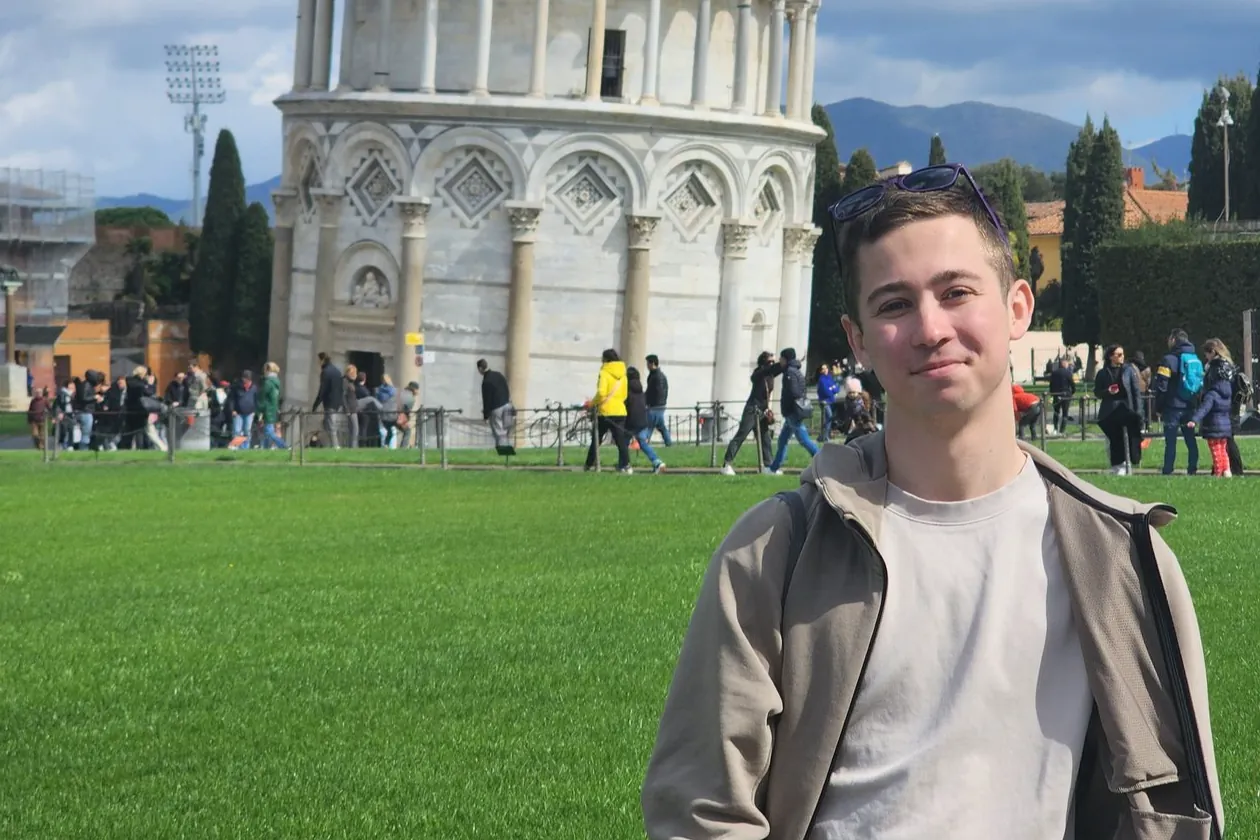
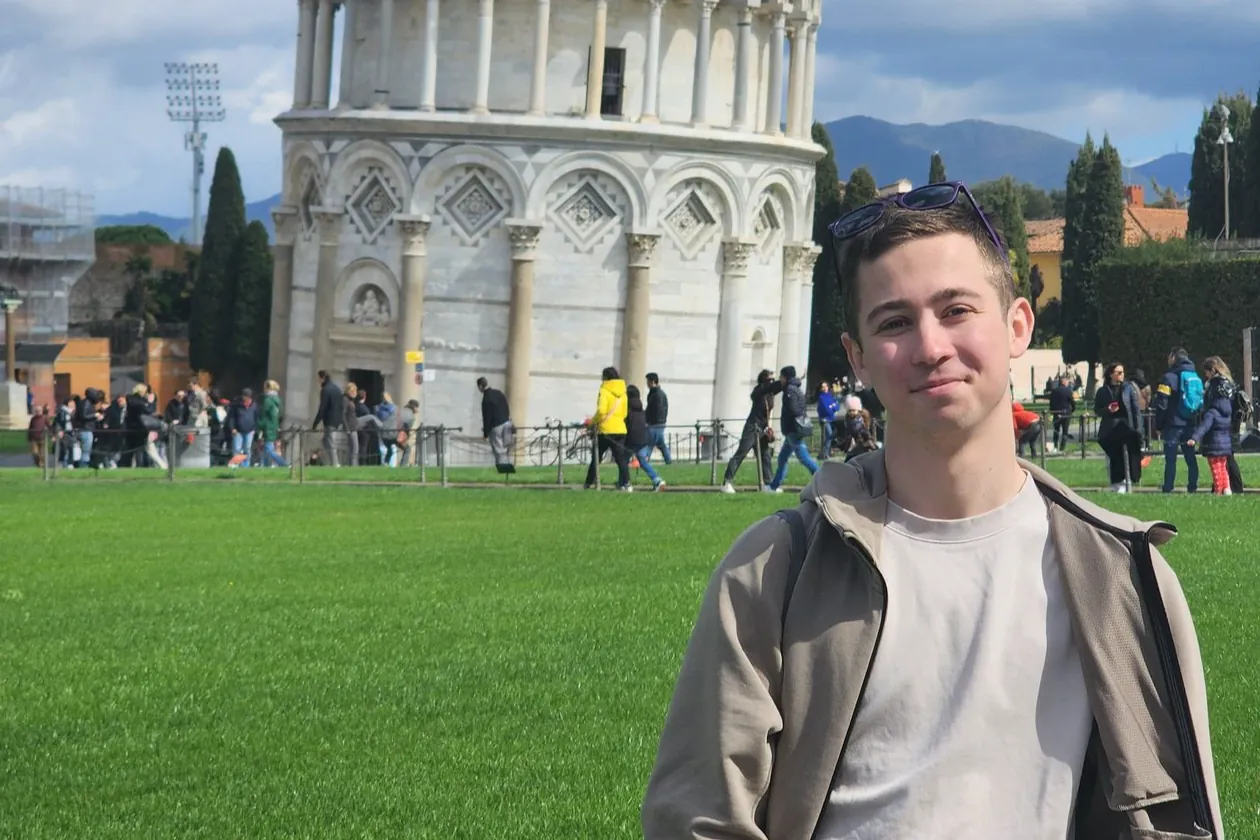
Новости: заголовок Холоэкспо-2024 и кадры двух портретов
Заголовок про «Холоэкспо-2024» встает в три строки по разбивке владельца.
Кадрирование: лица далеко от самого крупного больше не берутся в расчет (каскад
принимал за лицо светильник на потолке и складку халата), над лицом оставляется
запас на макушку, а где автоматика все равно промахивается, кадр задается руками
в словаре FRAMES. Поправлены снимки Юлии Мельчаковой и Марии Тимофеевой.

diff --git a/assets/js/data.js b/assets/js/data.js
@@ -3609,7 +3609,7 @@ window.NEWS = [
     },
   },
   {
-    id: "itmo-collab-2026", tag: "Достижение", date: "2026-09-02", image: "news-itmo-collab-2026.webp?v=0fffc503", popupImage: "news-itmo-collab-2026-popup.webp?v=389a7cbe",
+    id: "itmo-collab-2026", tag: "Достижение", date: "2026-09-02", image: "news-itmo-collab-2026.webp?v=2e15fc16", popupImage: "news-itmo-collab-2026-popup.webp?v=74f128c2",
     title: "Павел Филатов возглавил <br> программу ITMO Collab <br> в сезоне 2026/2027",
     text: "Павел Филатов стал руководителем программы ITMO Collab. Конкурс междисциплинарных студенческих проектов ИТМО, где лучшие команды получат до 1 000 000 рублей.",
     body: {
@@ -3625,7 +3625,7 @@ window.NEWS = [
     },
   },
   {
-    id: "biomaterials-paper", tag: "Публикация", date: "2026-08-26", image: "news-biomaterials-paper.webp?v=1da0e5e0", popupImage: "news-biomaterials-paper-popup.webp?v=f03cac34",
+    id: "biomaterials-paper", tag: "Публикация", date: "2026-08-26", image: "news-biomaterials-paper.webp?v=1da0e5e0", popupImage: "news-biomaterials-paper-popup.webp?v=aff3dde6",
     title: "Новая публикация <br> участников центра <br> в журнале Biomaterials",
     text: "Члены нашей команды опубликовали статью о наночастицах с микроРНК-200а для терапии острых и хронических заболеваний печени",
     body: {
@@ -3639,7 +3639,7 @@ window.NEWS = [
     },
   },
   {
-    id: "phd-finish-2026", tag: "Событие", date: "2026-07-13", image: "news-phd-finish-2026.webp?v=7668d711", popupImage: "news-phd-finish-2026-popup.webp?v=c98f7293",
+    id: "phd-finish-2026", tag: "Событие", date: "2026-07-13", image: "news-phd-finish-2026.webp?v=944e2d31", popupImage: "news-phd-finish-2026-popup.webp?v=dcadcd21",
     title: "Четверо сотрудников <br> нашего центра завершили <br> аспирантуру ИТМО",
     text: "Константин Арабули, Николай Жесткий, Лидия Михайлова и Мария Тимофеева завершили обучение в аспирантуре. Впереди — защита кандидатских диссертаций.",
     body: {
@@ -3757,7 +3757,7 @@ window.NEWS = [
     },
   },
   {
-    id: "valiev-scholarship", tag: "Достижение", date: "2025-12-16", image: "news-valiev-scholarship.webp?v=a0e21768", popupImage: "news-valiev-scholarship-popup.webp?v=a22f798d",
+    id: "valiev-scholarship", tag: "Достижение", date: "2025-12-16", image: "news-valiev-scholarship.webp?v=99682b81", popupImage: "news-valiev-scholarship-popup.webp?v=df0425aa",
     title: "Мария Тимофеева — <br> обладатель стипендии <br> имени К.А. Валиева",
     text: "Аспирантка нашего центра Мария Тимофеева стала победителем конкурсного отбора на именную стипендию имени К.А. Валиева. Стипендия назначается Минобрнауки РФ за достижения в области электронной промышленности.",
     body: {
@@ -3770,7 +3770,7 @@ window.NEWS = [
     },
   },
   {
-    id: "holoexpo-2025", tag: "Конференция", date: "2025-09-18", image: "news-holoexpo-2025.webp?v=c4bee3d5", popupImage: "news-holoexpo-2025-popup.webp?v=cfb51a27",
+    id: "holoexpo-2025", tag: "Конференция", date: "2025-09-18", image: "news-holoexpo-2025.webp?v=f1dc6164", popupImage: "news-holoexpo-2025-popup.webp?v=1bc918f1",
     title: "Павел Кустов получил <br> награду за лучший доклад <br> на Холоэкспо 2025",
     text: "Команда ЦМТ «Мост» приняла участие в конференции по фотонике Холоэкспо 2025 в Уфе. Павел Кустов удостоен награды за лучший устный доклад.",
     body: {
@@ -3811,7 +3811,7 @@ window.NEWS = [
     },
   },
   {
-    id: "knvsh-2025", tag: "Достижение", date: "2025-08-15", image: "news-knvsh-2025.webp?v=8e8fd661", popupImage: "news-knvsh-2025-popup.webp?v=d01bbc47",
+    id: "knvsh-2025", tag: "Достижение", date: "2025-08-15", image: "news-knvsh-2025.webp?v=789f2c50", popupImage: "news-knvsh-2025-popup.webp?v=d01bbc47",
     title: "Наш студент <br> Мартин Сандомирский — <br> победитель конкурса КНВШ",
     text: "Наш коллега Мартин Сандомирский стал победителем конкурса на получение грантов КНВШ для молодых ученых",
     body: {
@@ -3889,7 +3889,7 @@ window.NEWS = [
     },
   },
   {
-    id: "yali-sun-hust", tag: "Событие", date: "2025-04-22", image: "news-yali-sun-hust.webp?v=2be57170", popupImage: "news-yali-sun-hust-popup.webp?v=91a10c94",
+    id: "yali-sun-hust", tag: "Событие", date: "2025-04-22", image: "news-yali-sun-hust.webp?v=f15a2413", popupImage: "news-yali-sun-hust-popup.webp?v=645aad0b",
     title: "Наш постдок Яли Сунь переходит <br> на должность профессора <br> в университет HUST",
     text: "Яли Сунь, одна из первых участниц нашей группы, покидает команду, чтобы занять должность профессора в ведущем китайском университете Huazhong University of Science and Technology (HUST, Китай).",
     body: {
@@ -3902,7 +3902,7 @@ window.NEWS = [
     },
   },
   {
-    id: "zmaga-hust", tag: "Событие", date: "2025-04-22", image: "news-zmaga-hust.webp?v=1649e01c", popupImage: "news-zmaga-hust-popup.webp?v=068a2a78",
+    id: "zmaga-hust", tag: "Событие", date: "2025-04-22", image: "news-zmaga-hust.webp?v=c63f5d19", popupImage: "news-zmaga-hust-popup.webp?v=068a2a78",
     title: "Наш студент Георгий Змага <br> посетил университет HUST <br> в Ухане",
     text: "Участник нашей команды Георгий Змага посетил Хуачжунский университет науки и технологий (HUST, Ухань, Китай). Он работал в оптической лаборатории, провел измерения для проекта по детектированию слабого рамановского сигнала одиночных молекул и посетил Optics Valley Laboratory.",
     body: {
@@ -3915,7 +3915,7 @@ window.NEWS = [
     },
   },
   {
-    id: "photonics-expo-2025", tag: "Конференция", date: "2025-04-01", image: "news-photonics-expo-2025.webp?v=0f2639fc", popupImage: "news-photonics-expo-2025-popup.webp?v=34e9036c",
+    id: "photonics-expo-2025", tag: "Конференция", date: "2025-04-01", image: "news-photonics-expo-2025.webp?v=1d7c5011", popupImage: "news-photonics-expo-2025-popup.webp?v=09834e00",
     title: "Наша команда приняла <br> участие в выставке <br> «Фотоника 2025»",
     text: "С 1 по 4 апреля 2025 года члены нашей команды представили прикладные проекты на выставке «Фотоника 2025» в Москве. На стенде ИТМО были показаны синтез наночастиц кремния лазерной абляцией и защитные неклонируемые метки Unclonix.",
     body: {
@@ -3928,7 +3928,7 @@ window.NEWS = [
     },
   },
   {
-    id: "nanophysics-2025", tag: "Конференция", date: "2025-03-15", image: "news-nanophysics-2025.webp?v=1a5cc495", popupImage: "news-nanophysics-2025-popup.webp?v=4dda09df",
+    id: "nanophysics-2025", tag: "Конференция", date: "2025-03-15", image: "news-nanophysics-2025.webp?v=1a5cc495", popupImage: "news-nanophysics-2025-popup.webp?v=611384af",
     title: "Дмитрий Зуев выступил <br> на симпозиуме «Нанофизика <br> и наноэлектроника»",
     text: "Дмитрий Зуев принял участие в XXIX Симпозиуме «Нанофизика и наноэлектроника», который прошел 11–14 марта 2025 года в Нижнем Новгороде. Он представил доклад о гибридных нанофотонных системах.",
     body: {
@@ -3941,7 +3941,7 @@ window.NEWS = [
     },
   },
   {
-    id: "melchakova-join", tag: "Событие", date: "2025-03-13", image: "news-melchakova-join.webp?v=00b39730", popupImage: "news-melchakova-join-popup.webp?v=e996adb7",
+    id: "melchakova-join", tag: "Событие", date: "2025-03-13", image: "news-melchakova-join.webp?v=d823051c", popupImage: "news-melchakova-join-popup.webp?v=ae9ce2ba",
     title: "Юлия Мельчакова присоединилась к нашей команде в роли постдока",
     text: "Наша команда пополнилась: к нам присоединилась Юлия Мельчакова, постдок. Она будет заниматься теоретическим исследованием спин-поляризованных материалов для оптики и фотоники.",
     body: {
@@ -3967,7 +3967,7 @@ window.NEWS = [
     },
   },
   {
-    id: "metanano-2024", tag: "Конференция", date: "2024-10-27", image: "news-metanano-2024.webp?v=a270c318", popupImage: "news-metanano-2024-popup.webp?v=2cc7124c",
+    id: "metanano-2024", tag: "Конференция", date: "2024-10-27", image: "news-metanano-2024.webp?v=a270c318", popupImage: "news-metanano-2024-popup.webp?v=a777fd28",
     title: "Команда нашего центра <br> участвует на школе <br> METANANO 2024",
     text: "Члены нашей группы Екатерина Понкратова, Артем Ларин, Елена Петрова и Мартин Сандомирский приняли участие в школе METANANO 2024 в Циндао. Мартин Сандомирский получил награду за лучший постер.",
     body: {
@@ -3993,7 +3993,7 @@ window.NEWS = [
     },
   },
   {
-    id: "microelectronics-2024", tag: "Конференция", date: "2024-09-29", image: "news-microelectronics-2024.webp?v=9df910e9", popupImage: "news-microelectronics-2024-popup.webp?v=7f614685",
+    id: "microelectronics-2024", tag: "Конференция", date: "2024-09-29", image: "news-microelectronics-2024.webp?v=7941bd30", popupImage: "news-microelectronics-2024-popup.webp?v=7f614685",
     title: "Павел Кустов принял <br> участие в форуме <br> «Микроэлектроника 2024»",
     text: "Член нашей группы Павел Кустов принял участие в форуме «Микроэлектроника 2024» — главном отраслевом событии в сфере электронных технологий. Мероприятие собрало ведущих экспертов и новаторов.",
     body: {
@@ -4009,7 +4009,7 @@ window.NEWS = [
     },
   },
   {
-    id: "alt-2024", tag: "Конференция", date: "2024-09-28", image: "news-alt-2024.webp?v=39faf618", popupImage: "news-alt-2024-popup.webp?v=cc7e7f8a",
+    id: "alt-2024", tag: "Конференция", date: "2024-09-28", image: "news-alt-2024.webp?v=39faf618", popupImage: "news-alt-2024-popup.webp?v=ee84db5b",
     title: "Дмитрий Зуев — приглашенный <br> докладчик на конференции <br> ALT 2024",
     text: "Дмитрий Зуев выступил в качестве приглашенного докладчика на 31-й Международной конференции Advanced Laser Technologies (ALT 2024) в ДВФУ, Владивосток",
     body: {
@@ -4023,7 +4023,7 @@ window.NEWS = [
   },
   {
     id: "holoexpo-2024", tag: "Конференция", date: "2024-09-15", image: "news-holoexpo-2024.webp?v=4d0aaacc", popupImage: "news-holoexpo-2024-popup.webp?v=4dfadafe",
-    title: "Эдуард Агеев представил доклад на конференции «Холоэкспо»",
+    title: "Эдуард Агеев представил <br> доклад на конференции <br> «Холоэкспо-2024»",
     text: "С 9 по 13 сентября 2024 года в Казани прошла 21-я международная конференция по голографии и прикладным оптическим технологиям «Холоэкспо». Эдуард Агеев представил доклад о лазерной микро- и нанофабрикации.",
     body: {
       lead: [
@@ -4035,7 +4035,7 @@ window.NEWS = [
     },
   },
   {
-    id: "rosupack-2024", tag: "Конференция", date: "2024-06-22", image: "news-rosupack-2024.webp?v=31a774d1", popupImage: "news-rosupack-2024-popup.webp?v=c44210cd",
+    id: "rosupack-2024", tag: "Конференция", date: "2024-06-22", image: "news-rosupack-2024.webp?v=7f2d4361", popupImage: "news-rosupack-2024-popup.webp?v=c44210cd",
     title: "Павел Кустов принял <br> участие в выставке <br> RosUpack 2024",
     text: "Член нашей команды Павел Кустов принял участие в 29-й Международной выставке упаковочной индустрии RosUpack — крупнейшей выставке в России и Восточной Европе.",
     body: {
@@ -4048,7 +4048,7 @@ window.NEWS = [
     },
   },
   {
-    id: "school-projects-2024", tag: "Достижение", date: "2024-05-24", image: "news-school-projects-2024.webp?v=15f6d23d", popupImage: "news-school-projects-2024-popup.webp?v=9abf782e",
+    id: "school-projects-2024", tag: "Достижение", date: "2024-05-24", image: "news-school-projects-2024.webp?v=9b766db5", popupImage: "news-school-projects-2024-popup.webp?v=38973509",
     title: "Школьные проекты <br> под руководством нашей группы <br> получили научные награды",
     text: "В нашем центре ежегодно стажируются 11 школьников из Санкт-Петербурга, Красноярска, Котласа и Приозерска. Их проекты завоевали дипломы I и II степени на «Сахаровских чтениях 2024» и других конференциях.",
     body: {
@@ -4061,7 +4061,7 @@ window.NEWS = [
     },
   },
   {
-    id: "harbin-seminar-2024", tag: "Конференция", date: "2024-04-29", image: "news-harbin-seminar-2024.webp?v=689a4148", popupImage: "news-harbin-seminar-2024-popup.webp?v=56c74064",
+    id: "harbin-seminar-2024", tag: "Конференция", date: "2024-04-29", image: "news-harbin-seminar-2024.webp?v=d53d1182", popupImage: "news-harbin-seminar-2024-popup.webp?v=56c74064",
     title: "Дмитрий Зуев выступил <br> на семинаре в Харбинском <br> инженерном университете",
     text: "Дмитрий Зуев был приглашенным докладчиком на международном семинаре «Нанотехнологии для оптики и оптоэлектроники» в Харбинском инженерном университете (26–29 апреля 2024).",
     body: {
@@ -4074,7 +4074,7 @@ window.NEWS = [
     },
   },
   {
-    id: "conferences-2023", tag: "Конференция", date: "2024-01-25", image: "news-conferences-2023.webp?v=d3549f7c", popupImage: "news-conferences-2023-popup.webp?v=b92c05ff",
+    id: "conferences-2023", tag: "Конференция", date: "2024-01-25", image: "news-conferences-2023.webp?v=d3549f7c", popupImage: "news-conferences-2023-popup.webp?v=8775abf3",
     title: "Наша команда <br> на всероссийских <br> и международных конференциях",
     text: "Члены нашей команды представили результаты исследований на конференциях ICMAT 2023, IEEE-NANO 2023, Метаматериалы'2023, ВКВО-2023, «Невская фотоника — 2023» и других.",
     body: {
@@ -4113,7 +4113,7 @@ window.NEWS = [
     },
   },
   {
-    id: "unclonix-gitex-2023", tag: "Конференция", date: "2023-10-19", image: "news-unclonix-gitex-2023.webp?v=e7267852", popupImage: "news-unclonix-gitex-2023-popup.webp?v=3393c56b",
+    id: "unclonix-gitex-2023", tag: "Конференция", date: "2023-10-19", image: "news-unclonix-gitex-2023.webp?v=a2962b22", popupImage: "news-unclonix-gitex-2023-popup.webp?v=3393c56b",
     title: "Команда Unclonix представила <br> проект на Expand North Star <br> в Дубае",
     text: "Команда проекта Unclonix приняла участие в международной выставке технологических стартапов Expand North Star в рамках форума GITEX в Дубае. Разработки представили инвесторам и экспертам отрасли.",
     body: {

diff --git a/index.html b/index.html
@@ -22,7 +22,7 @@
   <link rel="preload" href="assets/fonts/inter-latin-f11d729b.woff2" as="font" type="font/woff2" crossorigin>
   <link rel="stylesheet" href="assets/css/fonts.css?v=0293d912">
   <link rel="stylesheet" href="assets/css/style.css?v=7c6f9056">
-  <script src="assets/js/data.js?v=90b5010d" defer></script>
+  <script src="assets/js/data.js?v=2a80f223" defer></script>
   <script src="assets/js/layout.js?v=ff4b78e1" defer></script>
   <script src="assets/js/main.js?v=f6469d61" defer></script>
   <!-- разметка организации для поисковиков: название, принадлежность к ИТМО, контакты -->

diff --git a/direction.html b/direction.html
@@ -22,7 +22,7 @@
   <link rel="preload" href="assets/fonts/inter-latin-f11d729b.woff2" as="font" type="font/woff2" crossorigin>
   <link rel="stylesheet" href="assets/css/fonts.css?v=0293d912">
   <link rel="stylesheet" href="assets/css/style.css?v=7c6f9056">
-  <script src="assets/js/data.js?v=90b5010d" defer></script>
+  <script src="assets/js/data.js?v=2a80f223" defer></script>
   <script src="assets/js/layout.js?v=ff4b78e1" defer></script>
   <script src="assets/js/abstracts.js?v=82bd762e" defer></script>
   <script src="assets/js/citations.js?v=703e9418" defer></script>

diff --git a/publications.html b/publications.html
@@ -22,7 +22,7 @@
   <link rel="preload" href="assets/fonts/inter-latin-f11d729b.woff2" as="font" type="font/woff2" crossorigin>
   <link rel="stylesheet" href="assets/css/fonts.css?v=0293d912">
   <link rel="stylesheet" href="assets/css/style.css?v=7c6f9056">
-  <script src="assets/js/data.js?v=90b5010d" defer></script>
+  <script src="assets/js/data.js?v=2a80f223" defer></script>
   <script src="assets/js/layout.js?v=ff4b78e1" defer></script>
   <script src="assets/js/abstracts.js?v=82bd762e" defer></script>
   <script src="assets/js/citations.js?v=703e9418" defer></script>

diff --git a/news.html b/news.html
@@ -22,7 +22,7 @@
   <link rel="preload" href="assets/fonts/inter-latin-f11d729b.woff2" as="font" type="font/woff2" crossorigin>
   <link rel="stylesheet" href="assets/css/fonts.css?v=0293d912">
   <link rel="stylesheet" href="assets/css/style.css?v=7c6f9056">
-  <script src="assets/js/data.js?v=90b5010d" defer></script>
+  <script src="assets/js/data.js?v=2a80f223" defer></script>
   <script src="assets/js/layout.js?v=ff4b78e1" defer></script>
   <script src="assets/js/main.js?v=f6469d61" defer></script>
 </head>

diff --git a/tools/news_photos.py b/tools/news_photos.py
@@ -36,6 +36,15 @@ SRC = ROOT.parent / "Фото"
 SIZES = {"": (1600, 3 / 2), "-popup": (1100, 900 / 990)}
 QUALITY = 80
 FACE_TOP = 0.38   # куда по высоте кадра ставим центр лиц
+HEAD = 0.9        # запас над лицом на макушку, в высотах лица
+
+# Снимки, где каскад ошибается (принял за лицо светильник, блик, складку халата) и кадр
+# приходится задать руками: at это где лицо на исходнике, put это куда его поставить
+# в кадре, обе доли считаются от высоты сверху.
+FRAMES = {
+    "valiev-scholarship": {"at": 0.30, "put": 0.30},   # лицо Марии, сверху был потолок
+    "melchakova-join": {"at": 0.39, "put": 0.50},      # портрет Юлии, срезало макушку
+}
 BLIND_TOP = 0.42  # то же, когда лиц не нашлось: кадр чуть выше середины
 
 
@@ -56,19 +65,30 @@ def faces_of(image):
     if not found:
         return []
     found.sort(key=lambda b: b[2] * b[3], reverse=True)
-    biggest = found[0][2]
+    biggest = found[0]
     kept = []
     for x, y, w, h in found:
-        if w < biggest / 2:
+        if w < biggest[2] / 2:
             continue
         # то же лицо, найденное вторым каскадом, не считаем дважды
         if any(abs(x - kx) < kw / 2 and abs(y - ky) < kh / 2 for kx, ky, kw, kh in kept):
             continue
+        # каскад принимает за лицо светильник на потолке или блик на приборе, и такой
+        # ложный «сосед» уводит кадр. Люди на снимке стоят рядом, поэтому берем только тех,
+        # кто держится возле самого крупного лица
+        far = abs((y + h / 2) - (biggest[1] + biggest[3] / 2)) > 3 * biggest[3] \
+            or abs((x + w / 2) - (biggest[0] + biggest[2] / 2)) > 4 * biggest[2]
+        if far:
+            continue
         kept.append((x, y, w, h))
+    # одинокая мелкая находка это почти всегда не лицо: портрет снимают крупно,
+    # а на групповом снимке лиц много. Тогда лучше кадрировать по центру
+    if len(kept) < 3 and biggest[2] < min(image.size) * 0.05:
+        return []
     return kept
 
 
-def crop_box(size, faces, ratio):
+def crop_box(size, faces, ratio, frame=None):
     """Самый большой кадр нужного соотношения, в который попадают все лица."""
     width, height = size
     if width / height <= ratio:
@@ -76,10 +96,14 @@ def crop_box(size, faces, ratio):
     else:
         crop_w, crop_h = height * ratio, height
 
-    if len(faces):
+    if frame:
+        x = (width - crop_w) / 2
+        y = height * frame["at"] - crop_h * frame["put"]
+    elif len(faces):
         left = min(x for x, y, w, h in faces)
         right = max(x + w for x, y, w, h in faces)
-        top = min(y for x, y, w, h in faces)
+        # каскад отмечает лицо без волос, поэтому сверху оставляем запас на макушку
+        top = min(y - h * HEAD for x, y, w, h in faces)
         bottom = max(y + h for x, y, w, h in faces)
         x = (left + right) / 2 - crop_w / 2
         y = (top + bottom) / 2 - crop_h * FACE_TOP
@@ -101,8 +125,8 @@ def crop_box(size, faces, ratio):
     return (round(x), round(y), round(x + crop_w), round(y + crop_h))
 
 
-def save(image, faces, name, width, ratio, dry):
-    box = crop_box(image.size, faces, ratio)
+def save(image, faces, name, width, ratio, dry, frame=None):
+    box = crop_box(image.size, faces, ratio, frame)
     cut = image.crop(box)
     if cut.width > width:
         cut = cut.resize((width, round(cut.height * width / cut.width)), Image.LANCZOS)
@@ -131,7 +155,8 @@ def one_photo(items, path, news_id, dry):
         return False
     image = ImageOps.exif_transpose(Image.open(path)).convert("RGB")
     faces = faces_of(image)
-    made = [save(image, faces, f"news-{news['id']}{suffix}.webp", width, ratio, dry)
+    frame = FRAMES.get(news["id"])
+    made = [save(image, faces, f"news-{news['id']}{suffix}.webp", width, ratio, dry, frame)
             for suffix, (width, ratio) in SIZES.items()]
     news["image"] = stamp(f"news-{news['id']}.webp")
     news["popupImage"] = stamp(f"news-{news['id']}-popup.webp")
@@ -179,7 +204,8 @@ def main():
         faces = faces_of(image)
         if not len(faces):
             blind.append(path.name)
-        made = [save(image, faces, f"news-{news['id']}{suffix}.webp", width, ratio, args.dry)
+        frame = FRAMES.get(news["id"])
+        made = [save(image, faces, f"news-{news['id']}{suffix}.webp", width, ratio, args.dry, frame)
                 for suffix, (width, ratio) in SIZES.items()]
         news["image"] = stamp(f"news-{news['id']}.webp")
         news["popupImage"] = stamp(f"news-{news['id']}-popup.webp")

diff --git a/docs/NEWS_TITLES_LINES.md b/docs/NEWS_TITLES_LINES.md
@@ -266,9 +266,11 @@
 
 ## holoexpo-2024 · 2024-09-15 · Конференция
 
+<!-- в анкете: Эдуард Агеев представил доклад на конференции «Холоэкспо» -->
 в карточке:
-    1  Эдуард Агеев представил доклад
-    2  на конференции «Холоэкспо»
+    1  Эдуард Агеев представил
+    2  доклад на конференции
+    3  «Холоэкспо-2024»
 
 ## rosupack-2024 · 2024-06-22 · Конференция
 
